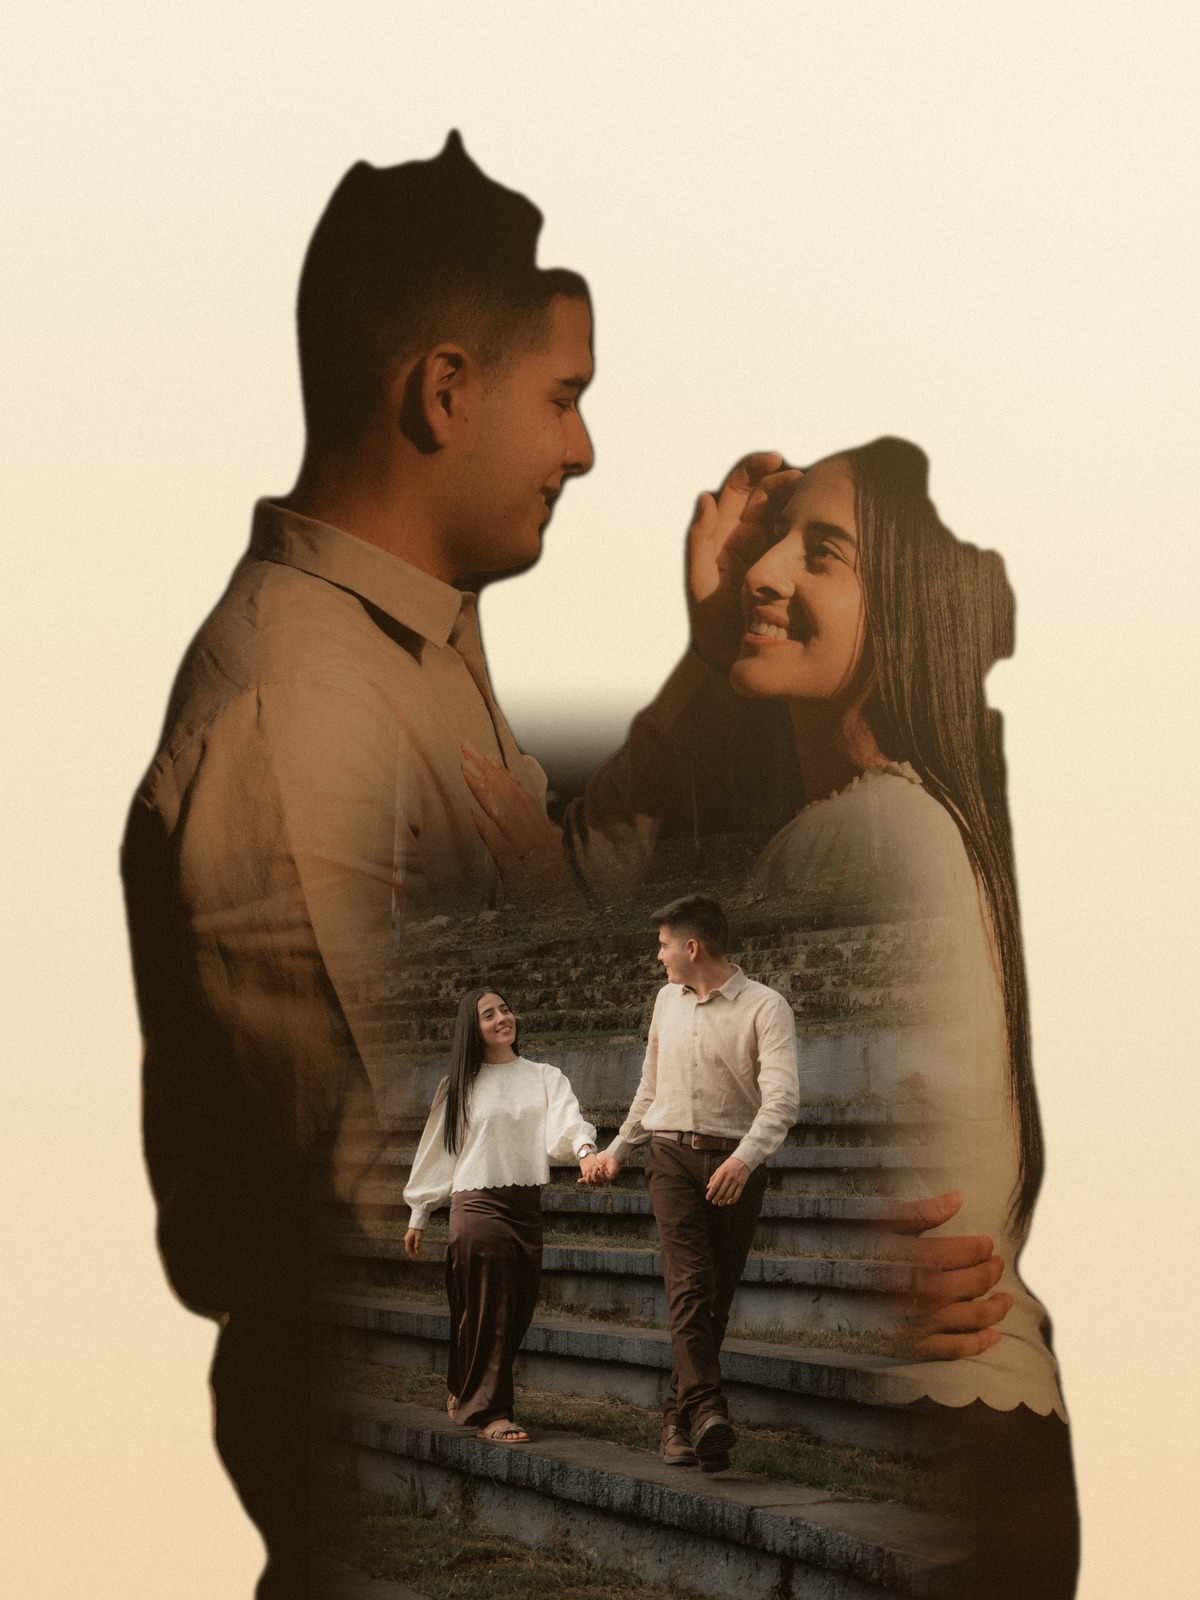
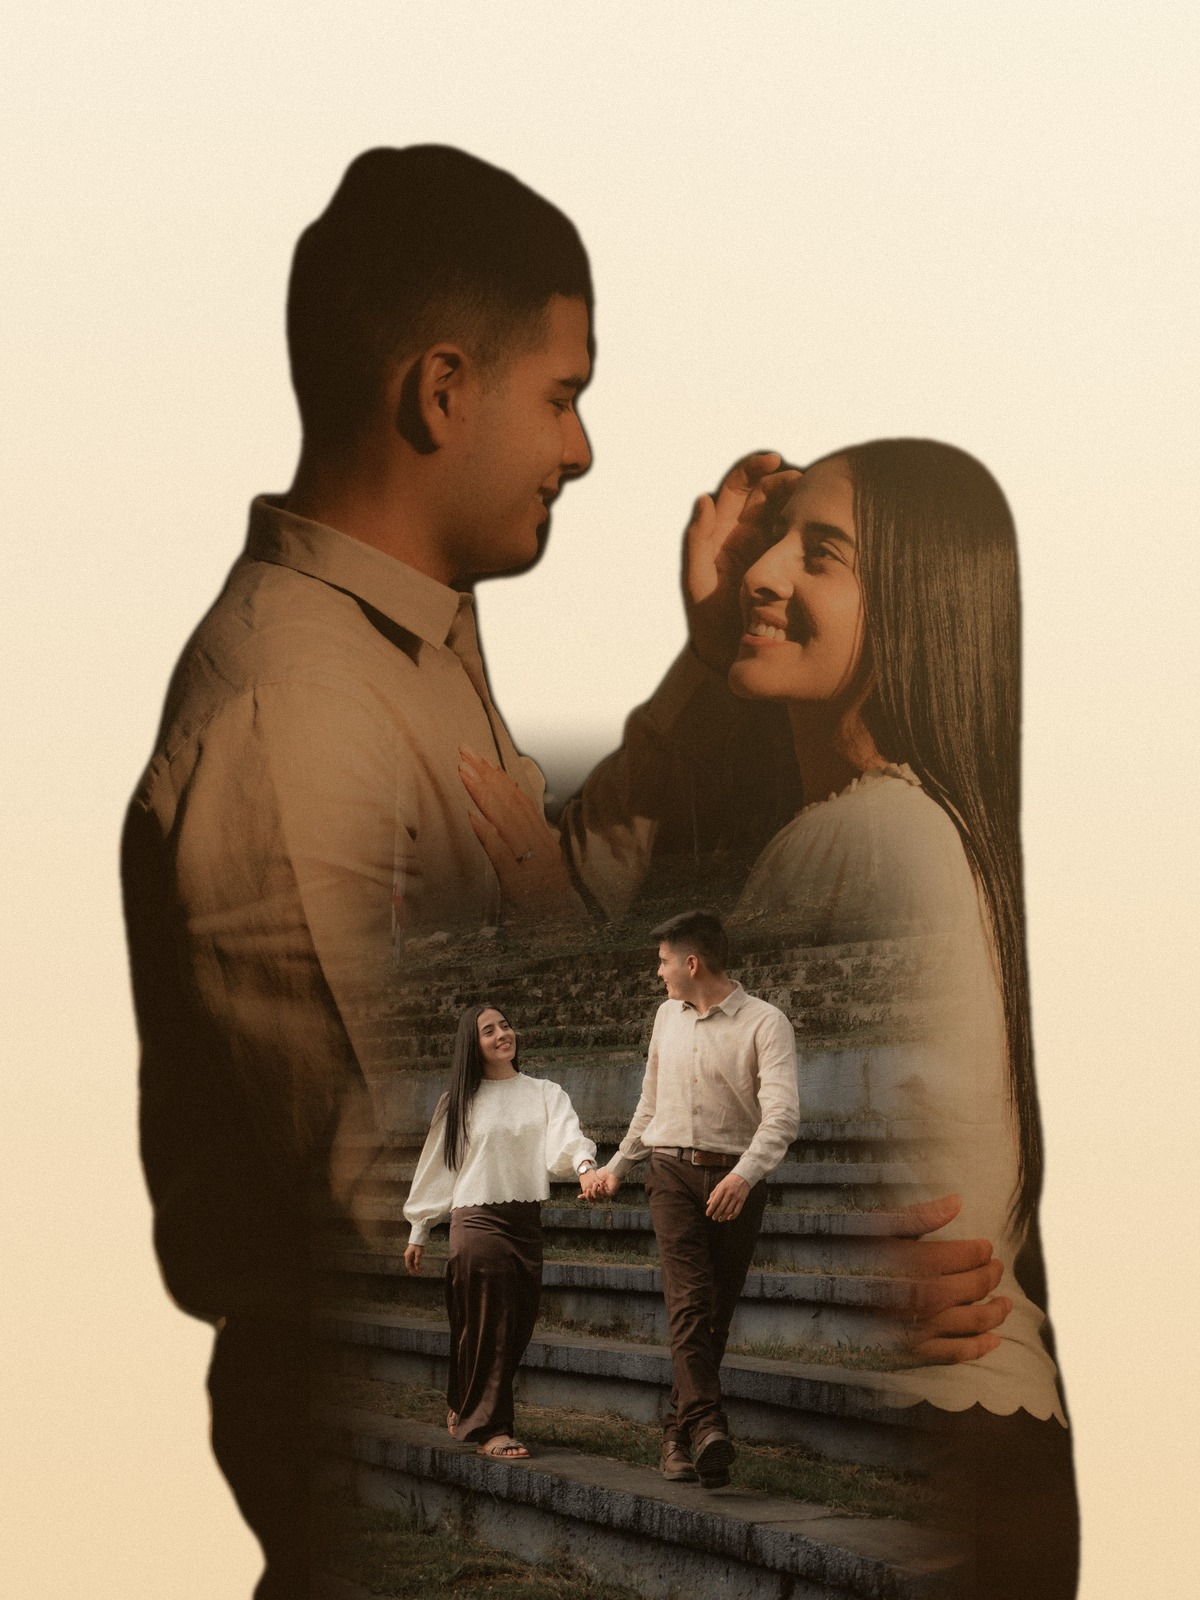
Add files via upload

diff --git a/index.html b/index.html
@@ -140,14 +140,18 @@ section>.wrap,section>.carril{position:relative;z-index:1}
 .hora{font-style:italic;font-size:1.18rem;color:var(--cafe-2)}
 
 /* ===== BANDA PANORÁMICA ===== */
-#banda{height:min(78svh,720px);padding:0;overflow:hidden;display:grid;place-items:center;background:var(--cafe)}
-#banda .foto{position:absolute;inset:0;background:url('pan.jpg') center 18%/cover no-repeat}
-#banda .foto video{object-position:center 18%}
-#banda::after{content:"";position:absolute;inset:0;background:linear-gradient(to bottom,rgba(40,28,20,0) 45%,rgba(34,24,16,.72))}
-#banda{place-items:end center}#banda .cap{padding-bottom:44px}
-#banda .cap{position:relative;z-index:2;color:#f7f1e2;padding:0 24px}
-#banda .cap b{display:block;font-family:var(--script);font-size:clamp(2.7rem,11.5vw,4.1rem);font-weight:400;line-height:1.1;
-  text-shadow:0 3px 22px rgba(0,0,0,.4)}
+#banda{height:min(96svh,900px);padding:0;overflow:hidden;display:grid;place-items:start center;background:#f3ece4}
+#banda .foto{position:absolute;inset:0;background:url('pan.jpg') center bottom/cover no-repeat}
+#banda .cap{position:relative;z-index:2;color:var(--cafe);padding:11svh 24px 0}
+#banda .cap .sans{color:var(--cafe-2)}
+#banda .cap b{display:block;font-family:var(--script);font-size:clamp(2.7rem,11.5vw,4.1rem);font-weight:400;line-height:1.1}
+@media (min-width:560px){
+  #banda{height:min(100svh,940px)}
+  /* los lados continúan el mismo horizonte: la foto estirada a lo ancho, alineada en altura */
+  #banda::before{content:"";position:absolute;inset:0 -30px;background:url('pan-lados.jpg') center/100% 100% no-repeat;filter:blur(7px)}
+  #banda .foto{background-size:auto 100%;background-position:center bottom;
+    -webkit-mask-image:linear-gradient(to right,transparent calc(50% - 27svh),#000 calc(50% - 17svh),#000 calc(50% + 17svh),transparent calc(50% + 27svh));
+    mask-image:linear-gradient(to right,transparent calc(50% - 27svh),#000 calc(50% - 17svh),#000 calc(50% + 17svh),transparent calc(50% + 27svh))}}
 
 /* ===== CUENTA REGRESIVA ===== */
 #cuenta{background:#53582f url('tex-verde.jpg') repeat;background-size:512px;color:#f7f1df;overflow:hidden}
